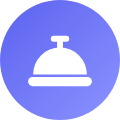
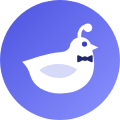
管家头像换成系领结的白色鹌鹑，拍板记录 U17 (T975)
主人选了大厅用两个对话框；服务铃嫌弱，要管家换成一只鸟：靛色圆底上一只系领结的白色鹌鹑，和品牌位的鹌鹑同一种、颜色分开。
docs/ui.md 拍板记录加 U17（品牌、大厅、管家三种图标各管一件），tests/test_ui_rules.py 的 IconsTest 核对。

Changed region(s): [[0.175, 0.175, 0.825, 0.8]]

diff --git a/tests/test_ui_rules.py b/tests/test_ui_rules.py
@@ -463,12 +463,34 @@ class WebSettingsLayoutTest(unittest.TestCase):
         self.assertNotIn('<h3 className="st-h">更多</h3>\n        <Grid', self.tsx)
         self.assertNotIn("去飞书改", self.tsx.replace("「去飞书改」已下线", ""))
         self.assertNotIn("FeishuBtn", self.tsx)
+class IconsTest(unittest.TestCase):
+    """U17: the brand's quail at the sidebar's top, 大厅 a line icon like 看板 and 记忆 (the sidebar and the phone's tab bar
+    the same one), the butler a picture of its own that is not the brand's."""
+
+    WEB_CV = REPO / "web" / "client" / "src" / "cv"
+
+    def test_brand_hall_and_butler(self):
+        import hashlib
+        shell = (self.WEB_CV / "Shell.tsx").read_text(encoding="utf-8")
+        self.assertIn("import brandMark from './brand/covey.png';", shell)
+        self.assertRegex(shell, r'<img className="logo" src=\{brandMark\}')
+        self.assertIn("const HallIcon = MessagesSquare;", shell)
+        hall = re.findall(r'<Link to="/butler"[^>]*>\s*<(\w+)', shell)
+        self.assertEqual(hall, ["HallIcon", "HallIcon"], "侧栏和手机标签栏的大厅都用 HallIcon")
+        butler = REPO / "covey" / "assets" / "avatars" / "butler.png"
+        brand = self.WEB_CV / "brand" / "covey.png"
+        self.assertNotEqual(hashlib.sha256(butler.read_bytes()).digest(), hashlib.sha256(brand.read_bytes()).digest())
+        for page in ("index.html", "selfhost/index.html"):
+            with self.subTest(page=page):
+                html = (REPO / "web" / "client" / page).read_text(encoding="utf-8")
+                self.assertIn('href="/favicon.png"', html)
+        self.assertTrue((REPO / "web" / "client" / "public" / "favicon.png").is_file())
 
 
 # The rules of this module, by their number in docs/ui.md 13.
 RULES = {"U1": "BandTest", "U2": "HeaderTest", "U3": "SpeakerRowTest", "U4": "QuestionButtonsTest", "U5": "ModelChoiceTest",
          "U6": "ButtonWordsTest", "U11": "BoardBandTest", "U13": "TidyFailedTest", "U14": "AssistSectionTest",
-         "U15": "MoreFoldTest", "U16": "WebSettingsLayoutTest"}
+         "U15": "MoreFoldTest", "U16": "WebSettingsLayoutTest", "U17": "IconsTest"}
 
 
 def decisions() -> list:

diff --git a/docs/ui.md b/docs/ui.md
@@ -285,7 +285,7 @@
 - **网页**：
   - 宽度 ≥1024px：三栏，侧栏 248px，主栏，右栏 316px。
   - 侧栏顶上是「要你处理」「在做」两组（和看板、侧栏角标同一口径），每组收着时最多 6 行，多出 1 个就直接列出；要你处理多的写“还有 N 件，在看板里”，链到看板；在做多的写“还有 N 个在做”和折起来的 T 号，点开列全、再点「收起」（记在这台浏览器上）；行首照旧是话题头像（管家、负责人、停住的专项用头像），右下角是状态点。专项树和最近话题在它们下面。
-  - 侧栏的三种图标各管一件，不混用：左上品牌位是 Covey 的鹌鹑（`web/client/src/cv/brand/covey.png`，浏览器标签页的图标是同一张）；「新话题」「大厅」「看板」「记忆」这几行导航是线条图标（大厅是两个对话框 `MessagesSquare`，手机标签栏同一个）；管家的头像（`covey/assets/avatars/butler.png`，靛色圆底白色服务铃，和飞书卡片头像行同一张）只出现在管家说话的地方（大厅的回答、看板、成员菜单），不当导航图标。
+  - 侧栏的三种图标各管一件，不混用：左上品牌位是 Covey 的鹌鹑（`web/client/src/cv/brand/covey.png`，浏览器标签页的图标是同一张）；「新话题」「大厅」「看板」「记忆」这几行导航是线条图标（大厅是两个对话框 `MessagesSquare`，手机标签栏同一个）；管家的头像（`covey/assets/avatars/butler.png`，靛色圆底上一只系领结的白色鹌鹑，和飞书卡片头像行同一张）只出现在管家说话的地方（大厅的回答、看板、成员菜单），不当导航图标。
   - 侧栏的先后不跟着同步抖：快照每秒取一次，在跑的话题每写一次进度 `updated_at` 就变，不能拿它排。在做组、专项里和最近话题里等你／在做／停住的那几行按编号大的在前（同看板的在做）；专项先分档（要你处理 → 有话题在做 → 其余），同一档里按不算在跑话题的最近活动排。鼠标（触控笔）在侧栏里动着时画的是鼠标进来那一刻的样子，移出侧栏或停着不动 5 秒才换成最新的，正要点的那行不会从鼠标底下挪走；手机抽屉照常跟着同步。
   - 电脑上是“外槽 + 画布”：侧栏直接铺在外槽上（不画右边线），主栏和右栏是一块四周留 8px、圆角 12px 的画布，右栏并进画布、只留一条发丝线；画布是面板色（浅色白，深色 #0D0F13），浅色外槽是浅灰，深色外槽压暗到 #060709、画布一圈细亮边。画布里拿 `--bg` 当遮罩的跟着画布色。侧栏选中的那行在浅色里是白底一圈细边。手机照旧铺满。
   - 侧栏的专项分组：负责人不另占一行，是专项标题行右侧的一个图标（负责人在做或等你时带状态点），和专项名去同一页；下面的话题用同一套格子（状态点 12px｜T 号 32px｜标题），整体缩到专项名下面。选中只换底色，不加竖条，也不改布局。
@@ -408,5 +408,6 @@
 | U14 | 设置卡「配置」里的「辅助模型」自成一节（和新话题、管家、负责人一样能折叠），展开时 Harness 一行（自动（跟随管家）、各 Harness、不用模型），点名了 Harness 再有供应商、模型、思考预算，和专项负责人一节同样的格子（主人定的：后台活不分轻重两套模型，和上面几节一样自选，默认跟管家一致），加一行说明（后台活都用它、现在实际用的 Harness · 模型 · 思考预算）；管家关着也显示。网页设置页同一段下面直接展开“后台活最近一次”小表 | 主人在三版里选了自成一节，没选放进「更多」（更多变长）和加一行最近一次（卡上多一行常变的字）；网页选了直接展开（收起要多点一下才看得到哪项没成） | 设置卡「配置」、网页设置页 | `test_ui_rules.AssistSectionTest`、`test_web_settings.WebSettingsTest` |
 | U15 | 设置卡「配置」每一节里没人改的几项（管家、新话题、负责人的供应商，负责人的模型和思考预算）收在这一节末尾一条默认收起的「更多：…」里，标题写里面有哪几项；点了里面的一项，重画后它还开着，点别的就收起（私聊顶层的消息一行已下线） | 主人在三版里选了每节自带折叠，没选页尾按钮切子页（要多点一次、整张卡换页）和手风琴多一节「更多」（10 项堆在一节、和所属的那一节分开） | 设置卡「配置」 | `test_ui_rules.MoreFoldTest`、`test_butler_panel.ButlerPanelTests` |
 | U16 | 网页设置页各页签一样宽（960）；「配置」里管家和专项负责人并成「管家与负责人」一段，一个角色一块（左边角色名，右边它的格子），压缩阈值接在管家的格子后面；「更多」改叫「其他」，一项一行（标签和一句说明在左，下拉在右）；各页顶上不放「去飞书改」，网页做不了、非得去飞书卡上处理的（代答的扫码登录）才在那一行给链接；代答话题的模型和配置页同一套格子联动 | 配置和账号额度 1000 宽、别的页 780，换页时内容忽宽忽窄；管家、负责人两段各占一块，负责人一段只有一个格子；「更多」里只剩子 Agent 一项，一个半宽的格子孤零零一块；网页上能改的都在页面上，顶上的「去飞书改」没人用 | 网页设置页 | `test_ui_rules.WebSettingsLayoutTest` |
+| U17 | 三种图标各管一件：网页侧栏左上的品牌位是 Covey 的鹌鹑（`web/client/src/cv/brand/covey.png`，浏览器标签页图标同一张）；「大厅」和「看板」「记忆」一样用线条图标（两个对话框 `MessagesSquare`，侧栏和手机标签栏同一个）；管家有自己的固定头像（`covey/assets/avatars/butler.png`，靛色圆底上一只系领结的白色鹌鹑），网页和飞书卡片头像行同一张，不和品牌图共用、不当导航图标 | 原来大厅和管家共用一张鹌鹑头像、品牌位是 CSS 画的字母 C，三处分不开；大厅在三版里选了两个对话框，没选沙发（只说是个地方，看不出是说话的入口）和一群人（和页头「成员」按钮撞）；管家的服务铃、领结主人嫌弱，换成一只鸟，和品牌的鹌鹑同一种、颜色分开 | 网页侧栏、手机标签栏、管家的头像（网页、飞书卡片） | `test_ui_rules.IconsTest` |
 
 **还没定的**：现在没有。主人还没拍板、暂时照现状的地方写在这里，对应的测试把它列成例外（如 `test_ui_rules.ModelChoiceTest` 的 `PENDING`），主人定了再改。

diff --git a/covey/assets/avatars/LICENSE.md b/covey/assets/avatars/LICENSE.md
@@ -4,7 +4,7 @@
 
 | 文件 | 用在 | 来源和许可 |
 | --- | --- | --- |
-| `butler.png` | 管家 | 自绘原创，随本仓库的许可：靛色渐变圆底、白色服务铃（换图只换这个文件；换了内容飞书那边会重新上传） |
+| `butler.png` | 管家 | 自绘原创，随本仓库的许可：靛色渐变圆底上一只系领结的白色鹌鹑（换图只换这个文件；换了内容飞书那边会重新上传） |
 | `G-*.png` | 专项负责人（6 个） | DiceBear「Moods」，CC0 |
 | `M-*.png` | 专项负责人（6 个） | DiceBear「Clay」，CC0 |
 | `sea-*.png` | 专项负责人（8 个） | 自绘原创，随本仓库的许可 |
